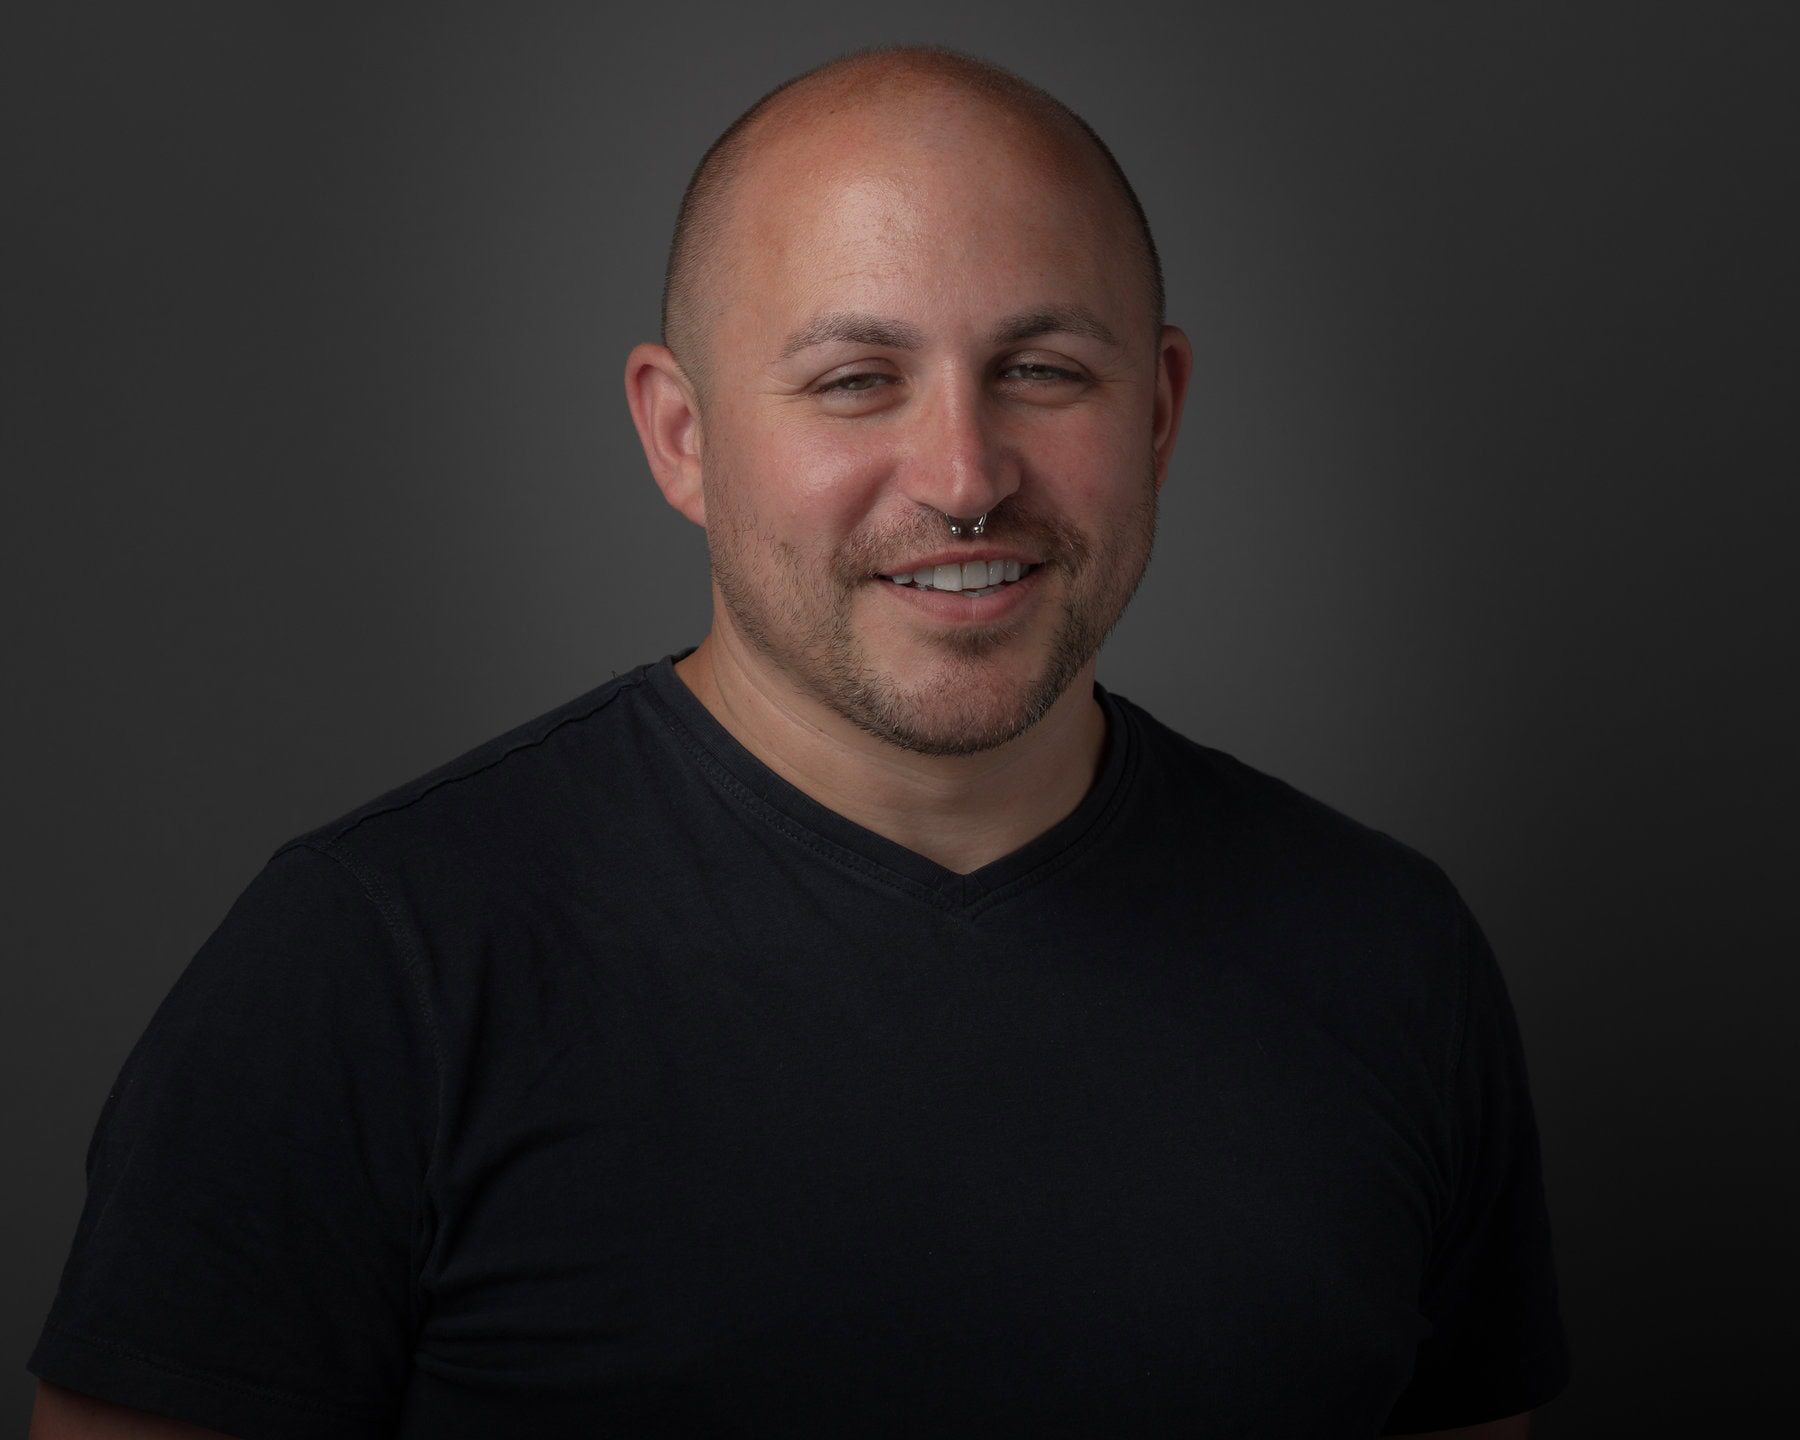
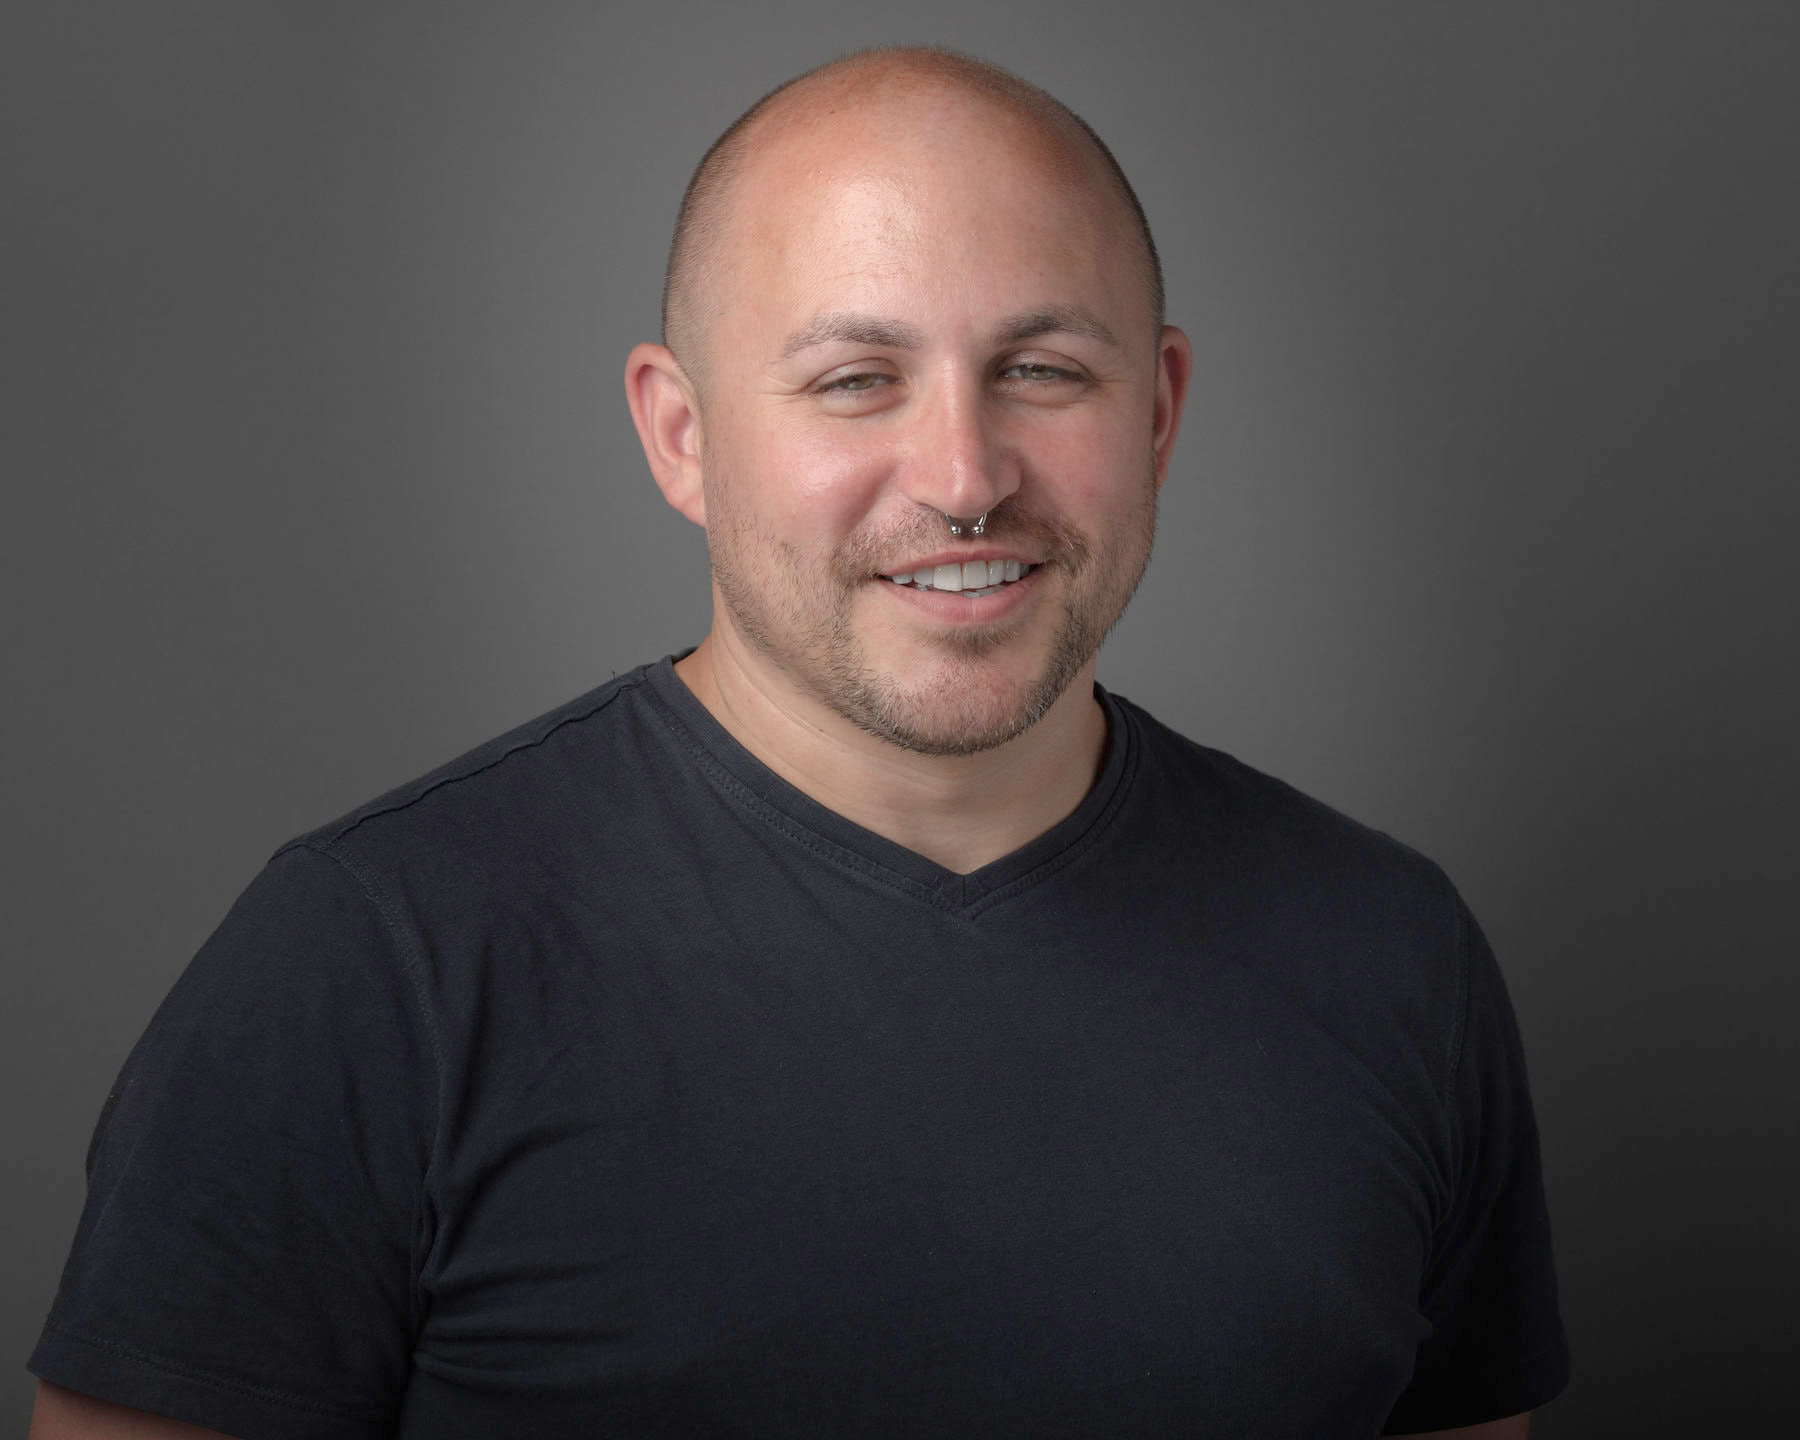
Warm one-way CTA sheen, bigger blue pool, travelling highlight, light footer
The CTA highlight was a cold white glint sliding back and forth. It is now a
warm pass in the page's own cream tone, 160% of the button wide and reaching
well past it top and bottom, and it always travels left to right: on hover it
crosses in 1.25s, on leave it fades where it stands and resets off-screen only
once it is invisible, so it never runs backwards. Peak 20% over the ink leaves
the white label at 5.23:1 — 28% would have dropped it to 4.48.

The first-step field gains a very soft sheen crossing it horizontally on its own
46s cycle, capped at 10% white because at 18% the white type over the ramp's
lightest point falls to 4.41:1. Its blue pool is 2.1x the area it was, now
3128x1248 against a 1280x331 block.

The footer is inverted — warm paper with a spectrum hairline instead of a second
dark band under the aubergine contact block (text 6.53:1, links 6.96:1). Two
footer rules existed and the later one was quietly winning; only one remains.

The gradient ring around the circular portrait is gone.

Text sweep at 360, 768, 1280 and 1440: 129 to 134 nodes, zero failures, zero
overflow.

diff --git a/design/full-colour.html b/design/full-colour.html
@@ -23,7 +23,7 @@
      ON TOP of it as a separate layer, so on hover the sheen travels across the
      button while the ink itself stays exactly where it is. Worst stop against
      the white label is 7.41:1; under the brightest part of the sheen, 5.20:1. */
-  --cta-sheen:radial-gradient(closest-side,rgba(255,255,255,.30),rgba(255,255,255,.10) 55%,rgba(255,255,255,0) 100%);
+  --cta-sheen:radial-gradient(closest-side,rgba(253,229,196,.20),rgba(253,229,196,.11) 42%,rgba(253,229,196,0) 100%);
   --cta-ink:linear-gradient(168deg,#a01e5c 0%,#6d2f8a 100%);
   --container:1140px; --section:100px;
   --display:'Bricolage Grotesque',ui-sans-serif,system-ui,sans-serif;
@@ -54,14 +54,11 @@ header::after{content:"";display:block;height:3px;background:var(--grad-soft)}
 nav{margin-left:auto;display:flex;gap:24px;min-width:0}
 nav a{font-size:16px;text-decoration:none;color:var(--muted);font-weight:500;white-space:nowrap;display:none}
 nav a:hover{color:var(--clay-dk)}
-.headcta{margin-left:auto;display:inline-flex;align-items:center;color:#fff;
-  background-image:var(--cta-sheen),var(--cta-ink);
-  background-size:150% 300%,100% 100%;
-  background-position:-40% 50%,0 0;
-  background-repeat:no-repeat,no-repeat;
+.headcta{margin-left:auto;position:relative;overflow:hidden;display:inline-flex;align-items:center;color:#fff;
+  background-image:var(--cta-ink);
   text-decoration:none;font-weight:600;font-size:16px;padding:11px 20px;white-space:nowrap;flex:none;
-  border-radius:6px;transition:background-position 1.15s cubic-bezier(.33,0,.2,1)}
-.headcta:hover,.headcta:focus-visible{background-position:140% 50%,0 0}
+  border-radius:6px}
+
 .cta-long{display:none}
 @media(min-width:430px){.cta-short{display:none}.cta-long{display:inline}}
 @media(min-width:700px){nav a[data-nav="help"]{display:inline}}
@@ -84,14 +81,22 @@ nav a:hover{color:var(--clay-dk)}
 .field .g1{inset:-80% -40% -50% -35%;
   background:radial-gradient(closest-side,rgba(140,26,64,.85),rgba(140,26,64,.3) 55%,transparent 78%);
   animation:drift1 54s ease-in-out infinite alternate}
-.field .g2{inset:-50% -35% -70% -10%;
-  background:radial-gradient(closest-side,rgba(69,36,115,.82),rgba(69,36,115,.3) 52%,transparent 76%);
+.field .g2{inset:-85% -60% -105% -28%;
+  background:radial-gradient(closest-side,rgba(69,36,115,.82),rgba(69,36,115,.32) 56%,transparent 80%);
   animation:drift2 82s ease-in-out infinite alternate}
 .field .g3{inset:-40% -50% -40% 20%;
   background:radial-gradient(closest-side,rgba(122,60,10,.5),transparent 70%);
   animation:drift3 68s ease-in-out infinite alternate}
+/* A very soft sheen crossing the block horizontally, on its own long cycle.
+   Capped at 10% white: over the ramp's lightest point that still leaves the
+   white type at 5.13:1, where 18% would have dropped it to 4.41. */
+.field .sheen{inset:-30% -70%;
+  background:linear-gradient(100deg,transparent 0%,rgba(255,255,255,.05) 32%,rgba(255,255,255,.10) 50%,
+    rgba(255,255,255,.05) 68%,transparent 100%);
+  animation:sweep 46s ease-in-out infinite alternate}
+@keyframes sweep{from{transform:translate3d(-32%,0,0)}to{transform:translate3d(32%,0,0)}}
 @keyframes drift1{from{transform:translate3d(-14%,7%,0) scale(1)}to{transform:translate3d(18%,-6%,0) scale(1.32)}}
-@keyframes drift2{from{transform:translate3d(16%,-9%,0) scale(1.18)}to{transform:translate3d(-17%,11%,0) scale(.88)}}
+@keyframes drift2{from{transform:translate3d(13%,-7%,0) scale(1.3)}to{transform:translate3d(-14%,9%,0) scale(1.02)}}
 @keyframes drift3{from{transform:translate3d(9%,12%,0) scale(1.05)}to{transform:translate3d(-13%,-8%,0) scale(1.35)}}
 @media(prefers-reduced-motion:reduce){.field>.pool{animation:none}}
 .heroGrid{display:grid;gap:32px;align-items:end}
@@ -106,15 +111,28 @@ nav a:hover{color:var(--clay-dk)}
    back when the pointer leaves — the movement is the feedback, not a colour
    swap. Every stop of the ramp clears AA against white (6.13 to 8.78:1), so the
    label is legible at any point in the travel. */
-.btn-primary{color:#fff;background-image:var(--cta-sheen),var(--cta-ink);
-  background-size:130% 300%,100% 100%;
-  background-position:-35% 50%,0 0;
-  background-repeat:no-repeat,no-repeat;
-  transition:background-position 1.15s cubic-bezier(.33,0,.2,1)}
-.btn-primary:hover,.btn-primary:focus-visible{background-position:135% 50%,0 0}
+.btn-primary{color:#fff;position:relative;overflow:hidden;background-image:var(--cta-ink)}
+
+/* The sheen is a warm, wide, soft pass in the page's own cream tone — not a cold
+   white glint. It always travels left to right: on hover it crosses in 1.25s, on
+   leave it fades out where it stands and resets off-screen once it is invisible,
+   so it never runs backwards. Peak 20% over the ink leaves the white label at
+   5.23:1 (28% would have dropped it to 4.48). */
+.headcta::before,.btn-primary::before{content:"";position:absolute;z-index:0;pointer-events:none;
+  top:-90%;bottom:-90%;left:0;width:160%;opacity:0;transform:translate3d(-120%,0,0);
+  background:var(--cta-sheen);
+  transition:transform 0s linear 1.3s,opacity .32s ease}
+.headcta:hover::before,.headcta:focus-visible::before,
+.btn-primary:hover::before,.btn-primary:focus-visible::before{
+  opacity:1;transform:translate3d(120%,0,0);
+  transition:transform 1.25s cubic-bezier(.33,0,.2,1),opacity .22s ease}
+.headcta>span,.btn-primary>span,.headcta{isolation:auto}
+.headcta span,.btn-primary{position:relative}
+.headcta span{z-index:1}
+@media(prefers-reduced-motion:reduce){.headcta::before,.btn-primary::before{display:none}}
 .surface .btn-primary{background-image:none;background-color:#fff;color:var(--sf)}
 .surface .btn-primary:hover{background-color:var(--hd)}
-@media(prefers-reduced-motion:reduce){.headcta,.btn-primary{transition:none}}
+
 .btn-ghost{border-color:var(--ink);color:var(--ink)}
 .btn-ghost:hover{background:var(--oat)}
 .reassure{margin-top:20px;font-size:16px;color:var(--muted);max-width:46ch;padding-bottom:8px}
@@ -237,9 +255,13 @@ details .body ul{margin:0 0 14px;padding-left:20px}
 @media(max-width:400px){.big .v{font-size:19px}}
 .big .h{display:block;margin-top:10px;color:#d8c7ce;font-size:16px}
 .big .h a{color:#ffd9c9}
-footer{background:var(--ink);color:#b6a4ad;font-size:15px;padding:0 0 60px}
-footer .wrap{border-top:1px solid rgba(255,255,255,.16);padding-top:28px;display:flex;flex-wrap:wrap;gap:12px 32px}
-footer a{color:#efe2ea}
+/* Inverted: the contact block above is aubergine, so the page finishes on light
+   rather than stacking two dark bands. */
+footer{background:var(--cream);color:var(--muted);font-size:15px;padding:36px 0 56px}
+footer .wrap{display:flex;flex-wrap:wrap;gap:12px 32px;border-top:3px solid transparent;
+  border-image:var(--spectrum) 1;padding-top:28px}
+footer a{color:var(--magenta)}
+footer a:hover{color:var(--ink)}
 @media(max-width:419px){.brand span{display:none}.bar{gap:12px}}
 /* ---- full-width colour surfaces: one hue per block, type in a lighter tint of
    the same hue. Every surface/tint pair measures AA (6.2 to 8.7:1). ---- */
@@ -322,7 +344,7 @@ footer a{color:#efe2ea}
 </section>
 
 <section class="strip surface s-coral field">
-  <span class="pool g1" aria-hidden="true"></span><span class="pool g2" aria-hidden="true"></span><span class="pool g3" aria-hidden="true"></span>
+  <span class="pool g1" aria-hidden="true"></span><span class="pool g2" aria-hidden="true"></span><span class="pool g3" aria-hidden="true"></span><span class="pool sheen" aria-hidden="true"></span>
   <div class="wrap">
     <div>
       <h2>The first step is a conversation.</h2>
